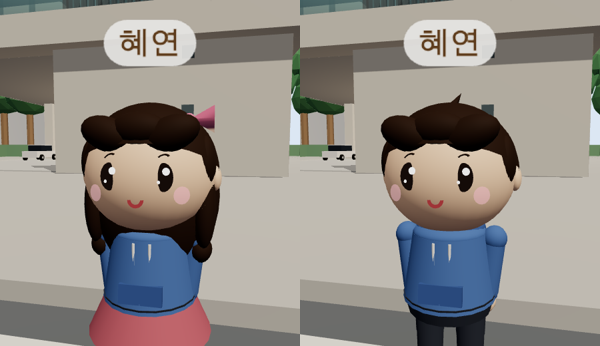
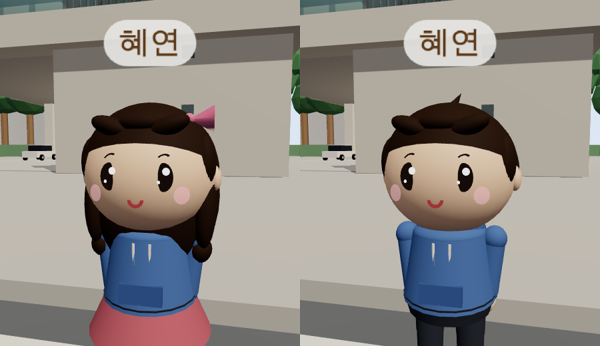
캐릭터 앞머리를 작고 얇게
Claude-Session: https://claude.ai/code/session_01Vz1QJdAp6yikLxGfQj8jmX

Changed region(s): [[0.12, 0.3179, 0.33, 0.4624], [0.63, 0.3179, 0.84, 0.4624]]

diff --git a/index.html b/index.html
@@ -631,9 +631,9 @@
     // 반구를 뒤로 기울여 앞(이마)은 눈썹 위에서 끝나고 뒤통수는 목덜미까지 덮게
     addTo(headGroup, new THREE.SphereGeometry(0.272, 28, 20, 0, Math.PI * 2, 0, Math.PI * 0.5), hairMat, 0, 0.0, -0.01).rotation.x = -0.42;
     [-1, 1].forEach((sx) => { const side = addTo(headGroup, new THREE.SphereGeometry(0.09, 12, 10), hairMat, sx * 0.21, 0.04, 0.05); side.scale.set(0.55, 1.15, 0.9); });
-    [[-0.11, 0.142, -0.35], [0.0, 0.157, 0.0], [0.11, 0.142, 0.35]].forEach(([x, y, rz]) => {   // 앞머리 (눈썹이 보이게 조금 올림)
-      const bang = addTo(headGroup, new THREE.SphereGeometry(0.1, 14, 10), hairMat, x, y, 0.19);
-      bang.scale.set(1.0, 0.6, 0.55); bang.rotation.z = rz;
+    [[-0.1, 0.168, -0.35], [0.0, 0.18, 0.0], [0.1, 0.168, 0.35]].forEach(([x, y, rz]) => {   // 앞머리: 작고 얇게, 이마가 보이게
+      const bang = addTo(headGroup, new THREE.SphereGeometry(0.08, 14, 10), hairMat, x, y, 0.18);
+      bang.scale.set(0.95, 0.42, 0.5); bang.rotation.z = rz;
     });
     const tuft = addTo(headGroup, new THREE.ConeGeometry(0.022, 0.08, 8), hairMat, 0.03, 0.275, 0.02);
     tuft.rotation.set(-0.5, 0, -0.4); tuft.name = 'tuftM';

diff --git a/docs/verification/2026-11-05/REPORT.md b/docs/verification/2026-11-05/REPORT.md
@@ -277,3 +277,4 @@
 - 눈썹: 두꺼운 막대(6×1.2cm) → 가는 아치(반지름 2cm, 굵기 3mm). 앞머리를 2cm 올려 눈썹이 가리지 않게.
 - 엘리베이터: 십자가 탑 벽면이 살짝 비스듬해(z -2.38~-2.44) 문과 8~10cm 틈 → 문 뒤 벽 마감판(1.4×2.5m)과 문틀 추가.
 - 확인(gender.cjs): 첫 방문 창, 성별 안 고르면 안내·창 유지, 여자 선택 저장·긴 머리·치마, 이름·성별 있으면 창 안 뜸, 상대 화면에 남자로 보임, 4층 엘리베이터 벽에 붙음, 오류 0.
+- 앞머리 줄임: 반지름 10→8cm, 두께 0.6→0.42배, 2.5cm 올림 (이마가 보이게).
